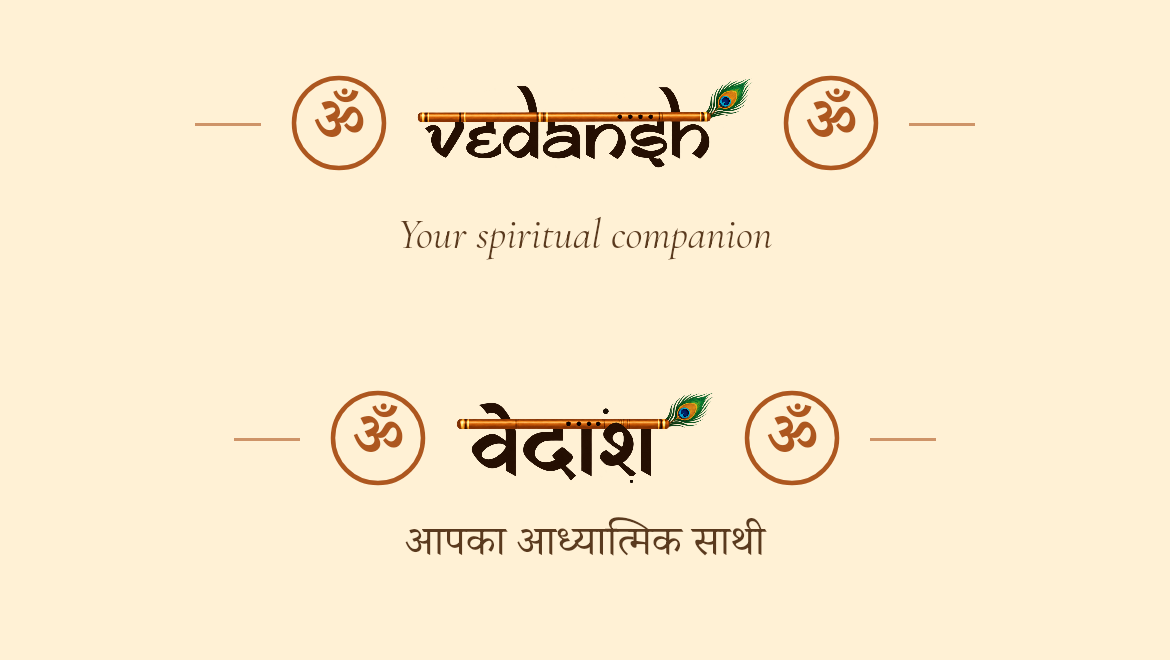
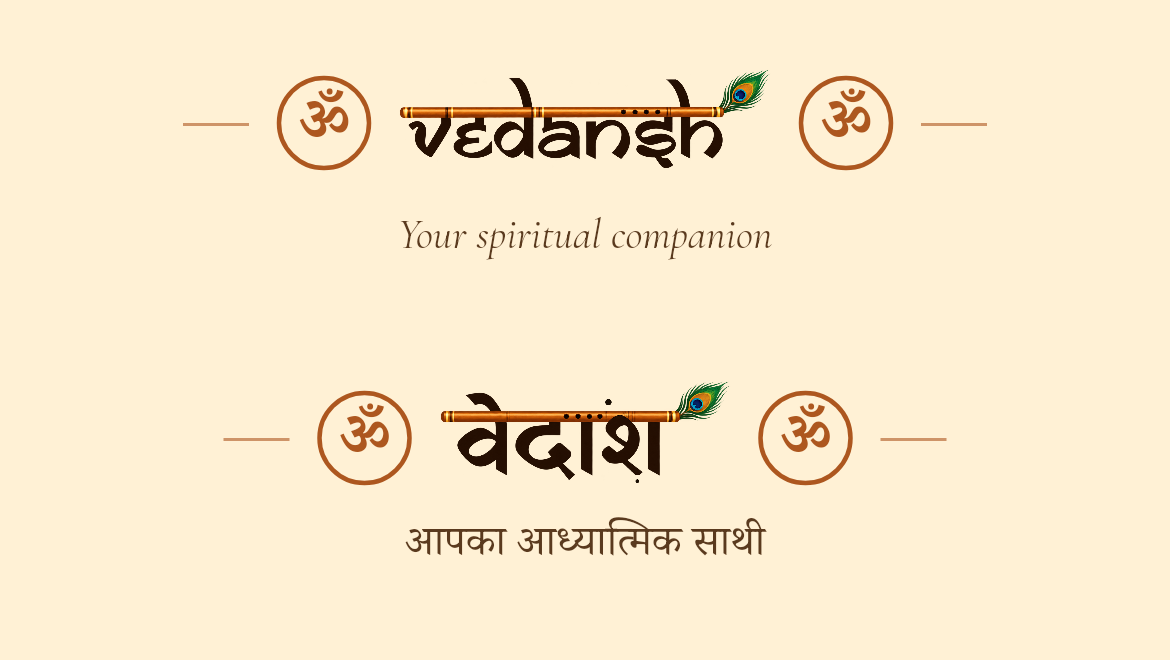
fix(brand): align visible wordmark lettering to Om circle size

Changed region(s): [[0.2154, 0.0909, 0.7692, 0.2727], [0.2462, 0.5758, 0.6154, 0.7576], [0.6154, 0.5758, 0.7385, 0.7576]]

diff --git a/mobile/src/components/HomeWordmark.tsx b/mobile/src/components/HomeWordmark.tsx
@@ -16,10 +16,11 @@ export default function HomeWordmark({ compact = false, showTagline = true }: {
   const { colors, typography } = useTheme();
   const kind = lang === 'hi' ? 'hi' : 'en';
   const metrics = manifest.names[kind];
-  // Keep the previous complete name footprint. The feather fits inside it;
+  // Align the visible dark lettering to the 30pt Om circles; decorative
+  // flute/feather bounds must not shrink or vertically displace the name.
   // never tint the master, which would erase its copper/green accents.
   const frame = metrics.homeFrame;
-  const width = Math.min(frame.width, frame.height * metrics.width / metrics.height);
+  const width = frame.artworkWidth;
   const mark = (side: 'left' | 'right') => (
     <View testID={`home-wordmark-om-${side}`} style={[styles.mark, { borderColor: colors.iconAccent }]}>
       <Text accessible={false} allowFontScaling={false} style={[styles.markText,
@@ -32,7 +33,7 @@ export default function HomeWordmark({ compact = false, showTagline = true }: {
       style={[styles.lockup, compact && styles.compact]}>
       {!compact && <View testID="home-wordmark-rule-left" style={[styles.rule, { backgroundColor: colors.iconAccent }]} />}
       {mark('left')}
-      <View testID="home-wordmark-artwork-frame" style={{ width: frame.width, height: frame.height, alignItems: 'center', justifyContent: 'center' }}>
+      <View testID="home-wordmark-artwork-frame" style={{ width: frame.width, height: frame.height, alignItems: 'center', justifyContent: 'center', transform: [{ translateY: frame.translateY }] }}>
         <WordmarkArtwork kind={kind} width={width} />
       </View>
       {mark('right')}
@@ -47,7 +48,7 @@ export default function HomeWordmark({ compact = false, showTagline = true }: {
 
 const styles = StyleSheet.create({
   wrap: { alignItems: 'center', maxWidth: '100%' },
-  lockup: { height: 42, flexDirection: 'row', alignItems: 'center', justifyContent: 'center', gap: 11 },
+  lockup: { height: 42, flexDirection: 'row', alignItems: 'center', justifyContent: 'center', gap: 10 },
   compact: { gap: 6 },
   rule: { width: 22, height: 1, opacity: 0.6 },
   mark: { width: 30, height: 30, borderRadius: 15, borderWidth: 1.5, alignItems: 'center', justifyContent: 'center' },

diff --git a/mobile/src/components/__tests__/HomeWordmark.test.tsx b/mobile/src/components/__tests__/HomeWordmark.test.tsx
@@ -34,10 +34,16 @@ for (const lang of languages) for (const scale of ['M', 'L']) {
     expect(image.props.testID).toBe(`vedansh-wordmark-${lang === 'hi' ? 'hi' : 'en'}`);
     expect(imageStyle.tintColor).toBeUndefined();
     const frame = StyleSheet.flatten(tree.root.findByProps({ testID: 'home-wordmark-artwork-frame' }).props.style);
-    expect(frame.height).toBe(32);
-    expect(frame.width).toBeCloseTo(lang === 'hi' ? 86 : 112);
+    expect(frame.height).toBe(36);
+    expect(frame.width).toBeCloseTo(lang === 'hi' ? 97 : 124);
     expect(imageStyle.width).toBeLessThanOrEqual(frame.width);
     expect(imageStyle.width / imageStyle.aspectRatio).toBeLessThanOrEqual(frame.height);
+    const metrics = manifest.names[lang === 'hi' ? 'hi' : 'en'];
+    const ink = metrics.homeFrame;
+    const sourceScale = imageStyle.width / metrics.width;
+    expect((ink.letteringBottom - ink.letteringTop) * sourceScale).toBeCloseTo(30);
+    const imageTop = (42 - metrics.height * sourceScale) / 2 + ink.translateY;
+    expect(imageTop + (ink.letteringTop + ink.letteringBottom) / 2 * sourceScale).toBeCloseTo(21);
     act(() => tree.unmount());
   });
 }
@@ -88,7 +94,7 @@ test.each([320, 360, 375, 390, 393.45, 414, 430, 768])('Home crest leaves the se
   for (const lang of languages) {
     const metrics = manifest.names[lang === 'hi' ? 'hi' : 'en'];
     const name = metrics.homeFrame.width;
-    const width = name + 2 * 30 + (compact ? 2 * 6 : 2 * 22 + 4 * 11);
+    const width = name + 2 * 30 + (compact ? 2 * 6 : 2 * 22 + 4 * 10);
     // A centered crest must finish before the right-aligned 44dp Settings hit target.
     expect((content + width) / 2).toBeLessThanOrEqual(content - 44);
   }

diff --git a/docs/branding/README.md b/docs/branding/README.md
@@ -15,7 +15,7 @@ Native hosting still adds only a viewport, fixed ivory centering, hidden replay 
 
 ## App footprint and shared branding
 
-Home retains its 42pt row, 30pt side Om circles/rules, 14/22 companion subtitle and Settings clearance. The COMPLETE artwork, including flute and feather, is contained inside the name frames enlarged to restore the previous visible lettering scale: English 112×32pt, Hindi 86×32pt. A wider source aspect ratio reduces the drawn height rather than growing the frame. No tint is passed: the master already contains the dark-ink lettering, copper flute, green/teal feather and Hindi dot below श. The user subsequently reported the Hindi dots were incorrect. `scripts/brand-wordmark-corrections.mjs` changes only two pinned crop regions: the upper diamond becomes a round bindu, and the lower dot is separated from the श tail. The original approved master is unchanged; tests preserve every pixel outside those regions and verify the gap/round shape. No separate native dot is added.
+Home retains its 42pt row, 30pt side Om circles/rules, 14/22 companion subtitle and Settings clearance. Visible dark lettering matches the Om circles at 30pt and shares their vertical center. Reviewed ink bounds in `scripts/brand-home-frame.mjs` set aspect-preserving scale and optical offsets inside English 124×36pt / Hindi 97×36pt frames. The complete flute and feather fit within the original 42pt row. Normal gaps are 10pt, compact gaps 6pt, preserving Settings clearance. No tint is passed: the master already contains the dark-ink lettering, copper flute, green/teal feather and Hindi dot below श. The user subsequently reported the Hindi dots were incorrect. `scripts/brand-wordmark-corrections.mjs` changes only two pinned crop regions: the upper diamond becomes a round bindu, and the lower dot is separated from the श tail. The original approved master is unchanged; tests preserve every pixel outside those regions and verify the gap/round shape. No separate native dot is added.
 
 `VedanshWordmark` reuses the same master crops for Home, verse/prose footers, common share strip, Panchang and Jyotish share headers. Hindi is primary in Hindi mode; English is the fixed brand name in the other modes. Companion subtitles and accessible labels follow all four app languages, using the existing script fonts. Export images register with `ArtworkCaptureContext`; capture still waits for their native decode. Content IDs, user storage and download links are unchanged.
 
@@ -27,6 +27,6 @@ The transparent flute master was produced by built-in imagegen and explicitly ap
 
 The original gate completed once per JS session and did not replay on foreground reopening. It could also start while iOS was still inactive when cached preferences loaded quickly. The gate now mounts a fresh reveal after background → active and keeps the navigator mounted beneath a full-screen Modal; cold startup waits for active. Inactive-only permission/Control Center transitions do not replay it. Warm notification/widget dispatch signals cancellation before navigation. Accessibility, cancellation and watchdog behavior remain tested.
 
-The old complete-art footprint made visible letters smaller because flute/feather consumed that box. English now uses a 112×32pt frame and Hindi 86×32pt, while the crest remains 42pt, Om circles 30pt and companion text 14/22. Screenshots IMG_9069(1), IMG_9068(1), and the earlier IMG_9032(1) establish the reported mismatch. Browser verification renders the actual production HomeWordmark with real language/theme/size providers; it remains separate from native device verification.
+The old complete-art footprint made visible letters smaller because flute/feather consumed that box. The follow-up alignment uses 124×36pt English and 97×36pt Hindi frames so the actual lettering, including Hindi dots, is exactly 30pt high and centered on the Om circles. The crest remains 42pt and companion text 14/22. Screenshots IMG_9069(1), IMG_9068(1), and the earlier IMG_9032(1) establish the reported mismatch. Browser verification renders the actual production HomeWordmark with real language/theme/size providers; it remains separate from native device verification.
 
 While the reveal is visible, the launch host, Explore, update offer and rating-request eligibility pause without consuming their daily slots. Their existing selection and cadence resume after branding finishes. The brand visibility signal is transient and never persisted.

diff --git a/RULEBOOK.md b/RULEBOOK.md
@@ -30,7 +30,7 @@ Code is canonical, but the docs may never lag it by more than the PR that change
 
 The brand name artwork intentionally remains English/Hindi: Hindi is primary in Hindi mode, English in other modes; optional bilingual marks are a fixed brand treatment. Accessibility labels and companion subtitles follow all four app languages and their script fonts. Do not transliterate or replace the approved name image with generic live typography. Actual mounted wordmark decodes participate in the common share-art paint barrier. Preserve source/export hashes and font provenance; Samarkan registration must be confirmed before production use. No font binary is added by this integration.
 
-**Home header footprint.** Keep the existing 42pt Om-flanked crest and name frames enlarged to restore visible lettering scale (English 112×32pt, Hindi 86×32pt). Contain the complete approved flute/peacock artwork within both bounds, preserving aspect ratio. Both 30pt Om circles/rules and the 14pt / `inkSoft` companion text remain. Preserve master pixels except the two documented Hindi dot correction regions; keep the upper bindu round and the lower nukta separate from the letter. Do not tint away the copper/green accents or add a second native dot. The opening animation uses those same wordmarks in its prior name bounds; only composition data changes in the preserved v1 renderer. `ApprovedBrandSource.test.ts` pins source/master hashes, exact crop pixels, unchanged icon/subtitle rows and normalized renderer identity. See design.md §§5/18 and `docs/branding/README.md`.
+**Home header footprint.** Keep the 42pt Om-flanked crest. Match visible dark lettering to the 30pt Om circles in height and vertical center using reviewed source ink bounds, rather than sizing from decorative flute/feather extents. English 124×36pt / Hindi 97×36pt frames hold aspect-preserving artwork with optical vertical offsets; normal gaps are 10pt (compact 6pt) to clear Settings. Retain the complete flute/peacock artwork. Both 30pt Om circles/rules and the 14pt / `inkSoft` companion text remain. Preserve master pixels except the two documented Hindi dot correction regions; keep the upper bindu round and the lower nukta separate from the letter. Do not tint away the copper/green accents or add a second native dot. The opening animation uses those same wordmarks in its prior name bounds; only composition data changes in the preserved v1 renderer. `ApprovedBrandSource.test.ts` pins source/master hashes, exact crop pixels, unchanged icon/subtitle rows and normalized renderer identity. See design.md §§5/18 and `docs/branding/README.md`.
 
 **Repeated brand launches.** Start the renderer only after native AppState becomes active. Replay after background → active with a fresh renderer instance, preserving the existing navigator below a full-screen modal. Inactive-only system interruptions must not start another reveal. Reduced motion, screen readers, errors and the watchdog still fail open. Notification/widget handlers signal the lightweight brand-target channel before dispatch so destinations bypass or cancel a resume reveal. Cover second/third opens, an inactive cold start, target ordering and navigator mount preservation in regression tests.
 

diff --git a/design.md b/design.md
@@ -334,7 +334,7 @@ are rendered in IST with `hourCycle: 'h23'` (`widgets/planPayload.ts`). Time inp
 
 ## 5. Iconography & Ornaments
 
-- **Home wordmark.** `HomeWordmark.tsx` preserves the compact crest: 42pt row, two 30pt saffron Om circles, 22×1pt side rules and 11pt gaps (compact: no rules, 6pt gaps). The flute-and-peacock artwork fits inside enlarged name frames to restore visible letter scale: English 112×32pt / Hindi 86×32pt. Fit both dimensions with preserved aspect ratio; neither flute nor feather grows the header. The source retains dark-ink letters, copper flute and green/teal feather; a deterministic two-region correction makes the upper Hindi bindu round and separates the lower dot from the श tail. All other master pixels are preserved; no tint or extra native dot is applied. Companion text stays at 14/22 in `inkSoft`, script-aware, scalable and wrapping. Settings keeps its 44pt target. See `docs/branding/flute/source.json` and the pixel-identity tests.
+- **Home wordmark.** `HomeWordmark.tsx` preserves the compact crest: 42pt row, two 30pt saffron Om circles, 22×1pt side rules and 10pt gaps (compact: no rules, 6pt gaps). The visible dark lettering, including Hindi dots, matches the 30pt Om circles in height and vertical center. Reviewed source ink bounds drive aspect-preserving drawing inside English 124×36pt / Hindi 97×36pt frames, with optical vertical offsets; the complete flute and feather remain visible within the 42pt crest. The 10pt normal gaps keep Settings clear at 390pt. The source retains dark-ink letters, copper flute and green/teal feather; a deterministic two-region correction makes the upper Hindi bindu round and separates the lower dot from the श tail. All other master pixels are preserved; no tint or extra native dot is applied. Companion text stays at 14/22 in `inkSoft`, script-aware, scalable and wrapping. Settings keeps its 44pt target. See `docs/branding/flute/source.json` and the pixel-identity tests.
 
 - **Shared/export wordmark.** `VedanshWordmark.tsx` keeps the approved flute/peacock master crops at their original colour. Hindi mode uses the Hindi mark; other modes use the fixed English brand mark. Optional bilingual mode shows both. Full marks are 180pt English / 110pt Hindi; compact marks are 86pt / 58pt, capped to their parent width at the source aspect ratio. The localized companion subtitle remains native text at 16/26 (compact 12/20), with script-safe existing fonts and system scaling/wrapping. Fixed share exports disable scaling only for their fixed text. Mark images retain inversion protection and localized accessible brand labels; share captures register their actual native decode with `ArtworkCaptureContext`.
 
